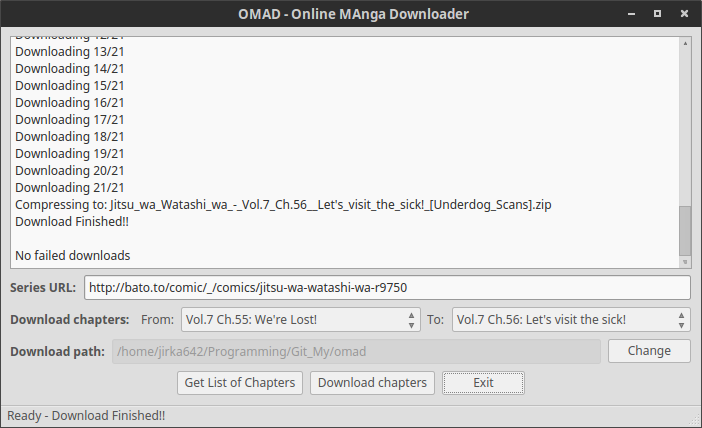
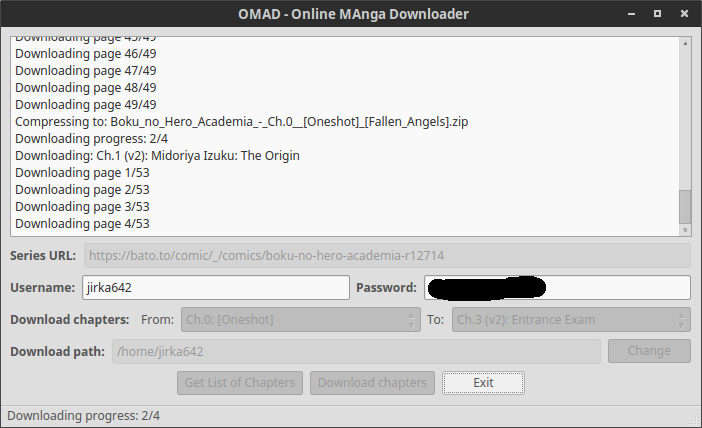
implemented batoto login support, fixed bug in generic login process

Changed region(s): [[0.0, 0.0607, 0.9872, 0.9416], [0.0, 0.9416, 0.2393, 1.0], [0.9573, 0.4252, 0.9872, 0.486]]

diff --git a/omad/batoto_model.py b/omad/batoto_model.py
@@ -21,7 +21,7 @@ import logging
 logger = logging.getLogger(__name__)
 import traceback
 
-from omad.sitemodel import SiteModel
+from .sitemodel import SiteModel
 
 from bs4 import BeautifulSoup
 
@@ -29,6 +29,42 @@ class BatotoModel(SiteModel):
     def __init__(self, series_url, gui_info_fcn):
         super(BatotoModel, self).__init__(series_url, gui_info_fcn)
         self.requests.updateHeaders({'referer': 'https://bato.to/reader'})
+
+    def login(self, username, password):
+        """ Returns True if OK, False if failed. """
+        login_data = {}
+
+        # get auth_key and other hidden variables
+        r = self.requests.get(url="https://bato.to/forums/index.php?app=core&module=global&section=login")
+        soup = BeautifulSoup(r.text, 'lxml')
+        login_form = soup.find("form", attrs={"id":"login"})
+        for hidden_input in login_form.findAll("input", attrs={"type":"hidden"}):
+            login_data[hidden_input.get("name")] = hidden_input.get("value")
+
+        # login
+        login_data['ips_username'] = username
+        login_data['ips_password'] = password
+        login_data['rememberMe'] = "1"
+        r = self.requests.post(
+            url="https://bato.to/forums/index.php?app=core&module=global&section=login&do=process",
+            data = login_data
+            )
+
+        # redirect
+        self.requests.get(url="https://bato.to/reader")
+
+        return self.getLogin()
+
+    def getLogin(self):
+        """ Returns True if user is logged in """
+        r = self.requests.post(url="https://bato.to/forums/index.php?app=core&module=usercp")
+        soup = BeautifulSoup(r.text, 'lxml')
+
+        h1_pagetitle = soup.find('h1', attrs={'class':'ipsType_pagetitle'})
+        if h1_pagetitle is None: return False
+        if h1_pagetitle.text.strip() == "My Settings": return True
+
+        return False
 
     def getChaptersList(self):
         """

diff --git a/omad/downloader_window.py b/omad/downloader_window.py
@@ -29,7 +29,7 @@ from PyQt4.QtGui import QMainWindow, QWidget, QVBoxLayout, QHBoxLayout,\
                         QTextEdit, QLineEdit, QLabel, QComboBox, QPushButton, \
                         QFileDialog
 
-from omad.download_controller import DownloadController
+from .download_controller import DownloadController
 
 class DownloadWorker(QRunnable):
     class DownloadWorkerSignals(QObject):
@@ -218,19 +218,15 @@ class DownloaderWindow(QMainWindow):
 
         # get series url
         url = str(self.line_url.text()).strip()
-
-        if not self.down_control.setSeriesUrl(url):
-            return # bad url
-
         # get login data
         login_username = str(self.line_username.text()).strip()
         login_password = str(self.line_password.text()).strip()
+
         if login_username!="" and login_password!="":
-            self.addInfo("Logging in as user '%s'..." % login_username)
-            if self.down_control.login(login_username, login_password):
-                self.addInfo("Sucessfuly logged in!")
-            else:
-                self.addInfo("Login failed! Continuing anyway.")
+            r = self.down_control.setSeriesUrl(url, login_username, login_password)
+        else:
+            r = self.down_control.setSeriesUrl(url)
+        if not r: return # bad url
 
         # get chapters list
         self.chapters = self.down_control.getChaptersList()

diff --git a/omad/download_controller.py b/omad/download_controller.py
@@ -22,9 +22,9 @@ logger = logging.getLogger(__name__)
 import traceback
 import os, sys
 
-from omad.batoto_model import BatotoModel
-from omad.mangafox_model import MangafoxModel
-from omad.mangatraders_model import MangatradersModel
+from .batoto_model import BatotoModel
+from .mangafox_model import MangafoxModel
+from .mangatraders_model import MangatradersModel
 
 class DownloadController():
     def __init__(self, gui_info_fcn=None):
@@ -68,7 +68,7 @@ class DownloadController():
     def getDownloadPath(self):
         return self.downloadPath
 
-    def setSeriesUrl(self, url):
+    def setSeriesUrl(self, url, username=None, password=None):
         logger.debug('Set series url: '+url)
 
         try:
@@ -93,6 +93,13 @@ class DownloadController():
             self.webpage_model = None
             self.chapters = []
             return False
+
+        if username is not None and password is not None:
+            self.guiInfoFcn("Logging in as '%s'" % username)
+            if self.login(username, password):
+                self.guiInfoFcn("Sucessfuly logged in!")
+            else:
+                self.guiInfoFcn("Login failed! Continuing anyway.")
 
         try:
             self.chapters = self.webpage_model.getChaptersList()

diff --git a/omad/omad_app.py b/omad/omad_app.py
@@ -24,8 +24,8 @@ import sys, os, argparse
 
 from PyQt4.QtGui import QApplication
 
-from omad.downloader_window import DownloaderWindow
-from omad.download_controller import DownloadController
+from .downloader_window import DownloaderWindow
+from .download_controller import DownloadController
 
 def nogui(args):
     #test if we have all needed args
@@ -39,16 +39,11 @@ def nogui(args):
     dc = DownloadController()
 
     print("Setting DownloadController url...")
-    if not dc.setSeriesUrl(args.url):
-        print("Wrong url! Exiting...")
-        sys.exit(2)
-
     if args.login is not None:
-        print("Logging in as '%s'" % args.login[0])
-        if dc.login(args.login[0], args.login[1]):
-            print("Sucessfuly logged in!")
-        else:
-            print("Login failed! Continuing anyway.")
+        r = dc.setSeriesUrl(args.url, args.login[0], args.login[1])
+    else:
+        r = dc.setSeriesUrl(args.url)
+    if not r: print("Wrong url! Exiting..."); sys.exit(2)
 
     print("Downloading gallery info for: %s" % (args.url, ))
     chapter_list = dc.getChaptersList()

diff --git a/omad/mangatraders_model.py b/omad/mangatraders_model.py
@@ -22,7 +22,7 @@ logger = logging.getLogger(__name__)
 
 from bs4 import BeautifulSoup
 
-from omad.sitemodel import SiteModel
+from .sitemodel import SiteModel
 
 class MangatradersModel(SiteModel):
 
@@ -160,7 +160,7 @@ if __name__ == "__main__":
     logger = logging.getLogger()
     logger.setLevel(logging.DEBUG)
 
-    from download_controller import DownloadController
+    from .download_controller import DownloadController
     dc = DownloadController()
 
     mod = MangatradersModel("http://mangatraders.biz/series/MahouTsukaiNoYome", dc.guiInfoFcn)

diff --git a/omad/sitemodel.py b/omad/sitemodel.py
@@ -23,8 +23,8 @@ import traceback
 
 import sys
 
-from omad.archive_controller import ArchiveController
-from omad.misctools.fixed_requests import FixedRequests
+from .archive_controller import ArchiveController
+from .misctools.fixed_requests import FixedRequests
 
 class SiteModel(object):
     def __init__(self, series_url, gui_info_fcn):

diff --git a/omad/archive_controller.py b/omad/archive_controller.py
@@ -27,7 +27,7 @@ import shutil
 from random import randint
 import zipfile
 
-from omad.misctools.fixed_requests import FixedRequests
+from .misctools.fixed_requests import FixedRequests
 
 class ArchiveController():
     def __init__(self, downloadPath='./'):

diff --git a/omad/__main__.py b/omad/__main__.py
@@ -17,5 +17,5 @@ You should have received a copy of the GNU General Public License
 along with OMAD.  If not, see <http://www.gnu.org/licenses/>.
 """
 
-from omad.omad_app import main
+from .omad_app import main
 main()

diff --git a/omad/mangafox_model.py b/omad/mangafox_model.py
@@ -21,7 +21,7 @@ import logging
 logger = logging.getLogger(__name__)
 import traceback
 
-from omad.sitemodel import SiteModel
+from .sitemodel import SiteModel
 
 from bs4 import BeautifulSoup
 

diff --git a/omad/__init__.py b/omad/__init__.py
@@ -1,1 +1,1 @@
-__version__ = '1.1'
+__version__ = '1.2'
